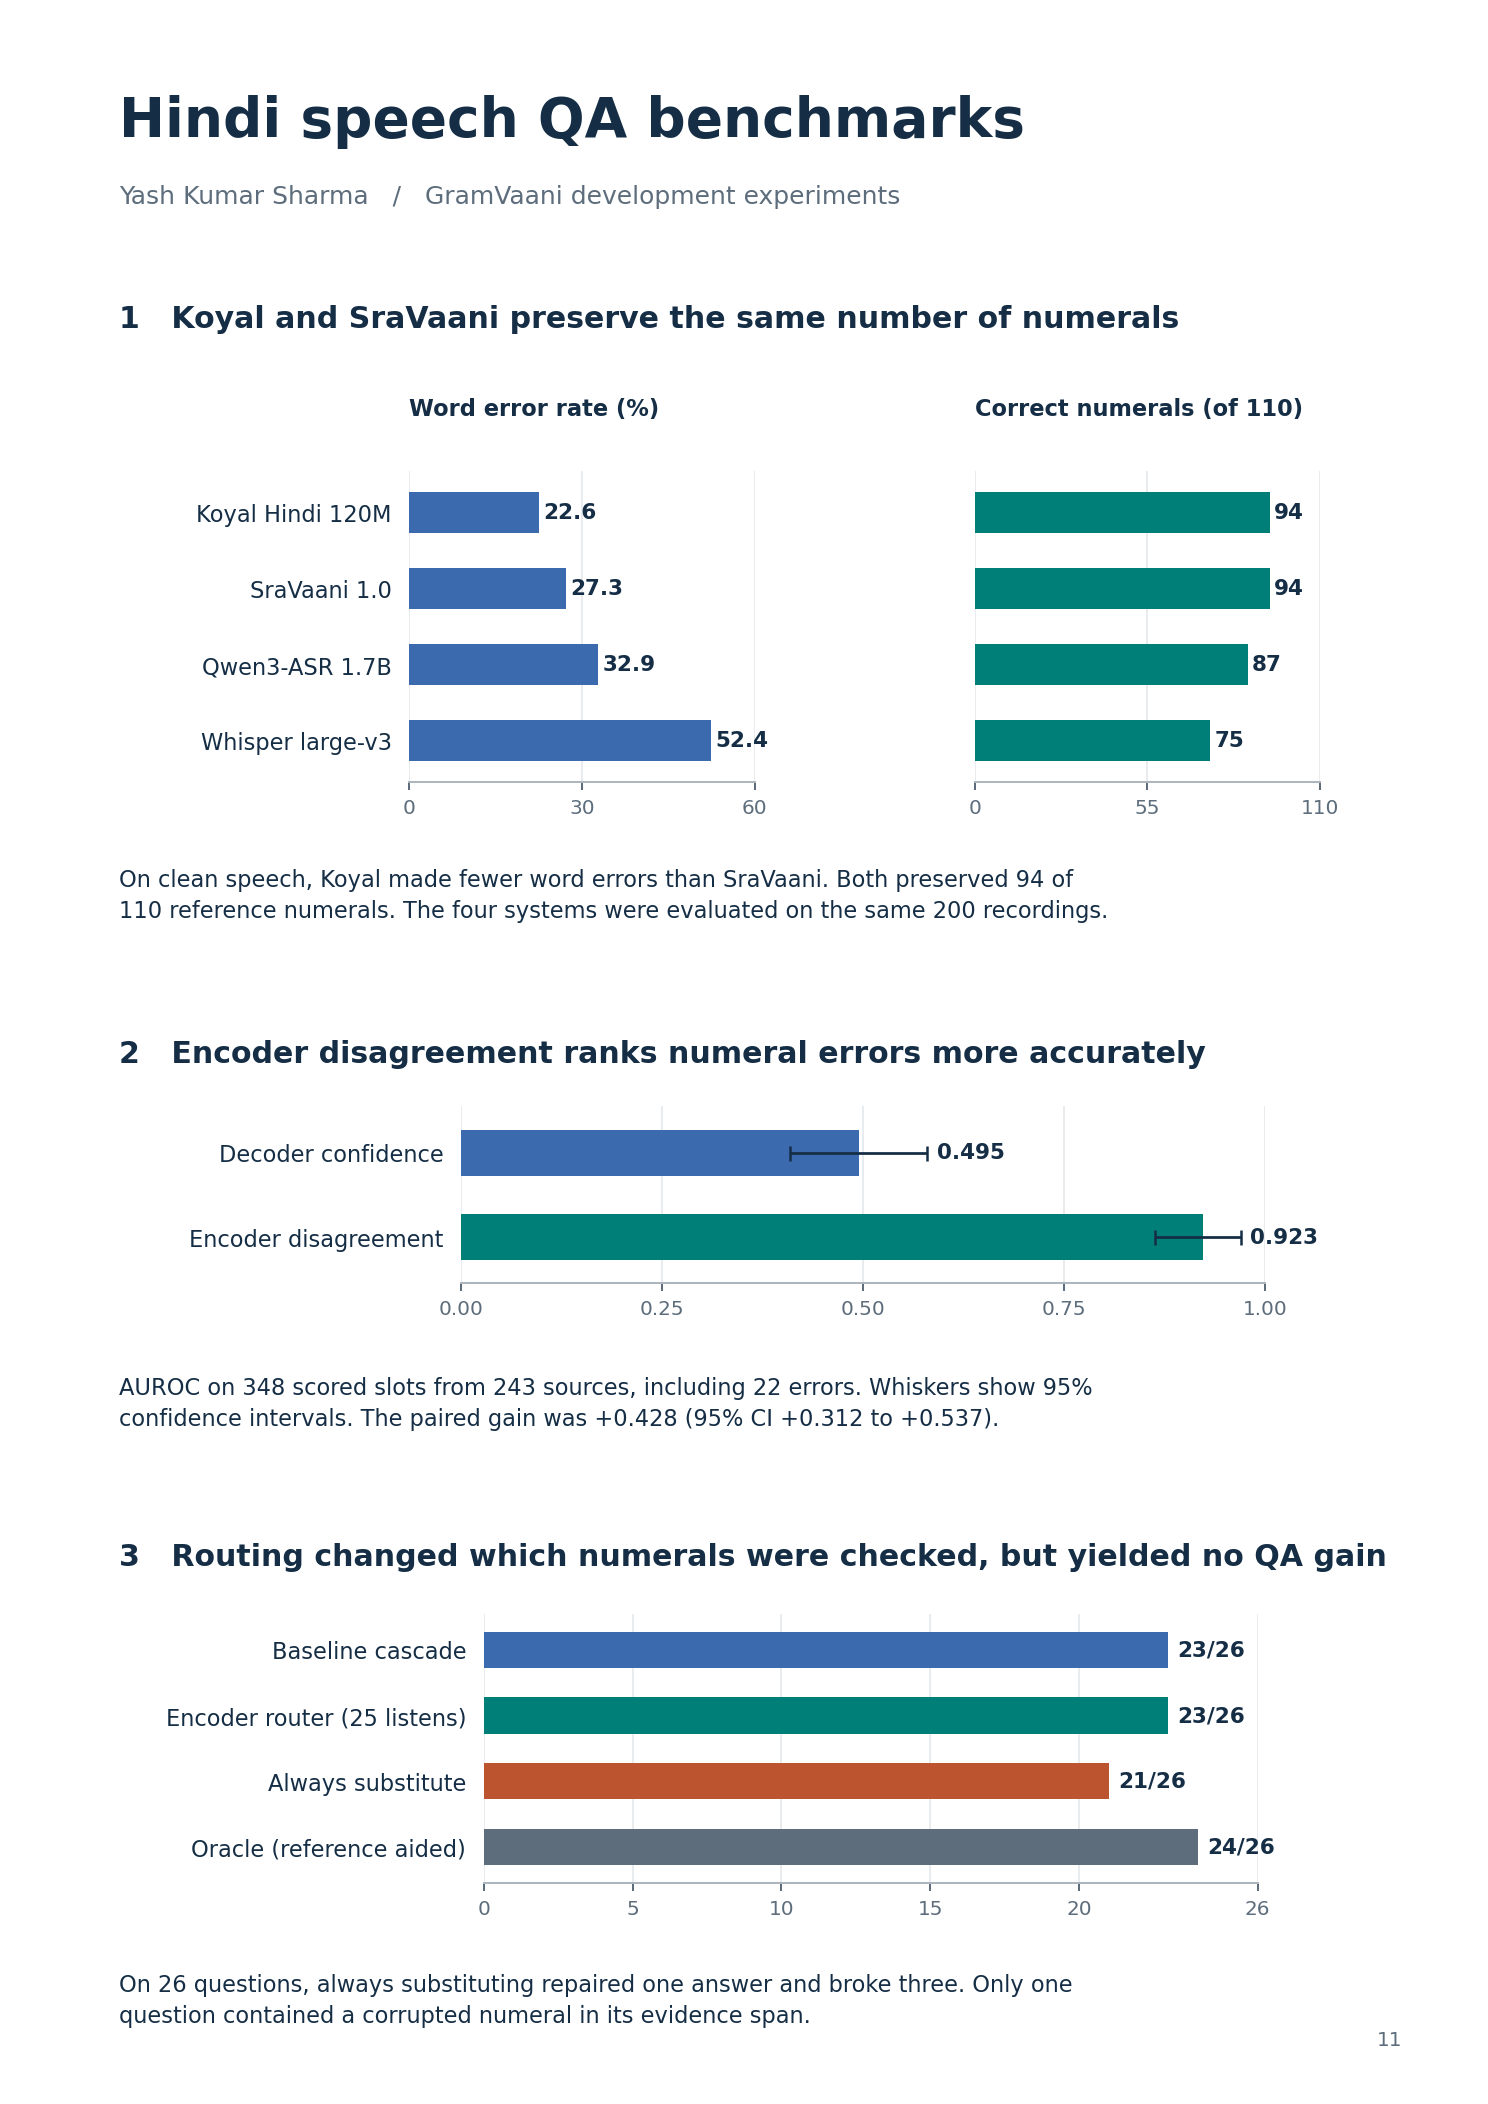
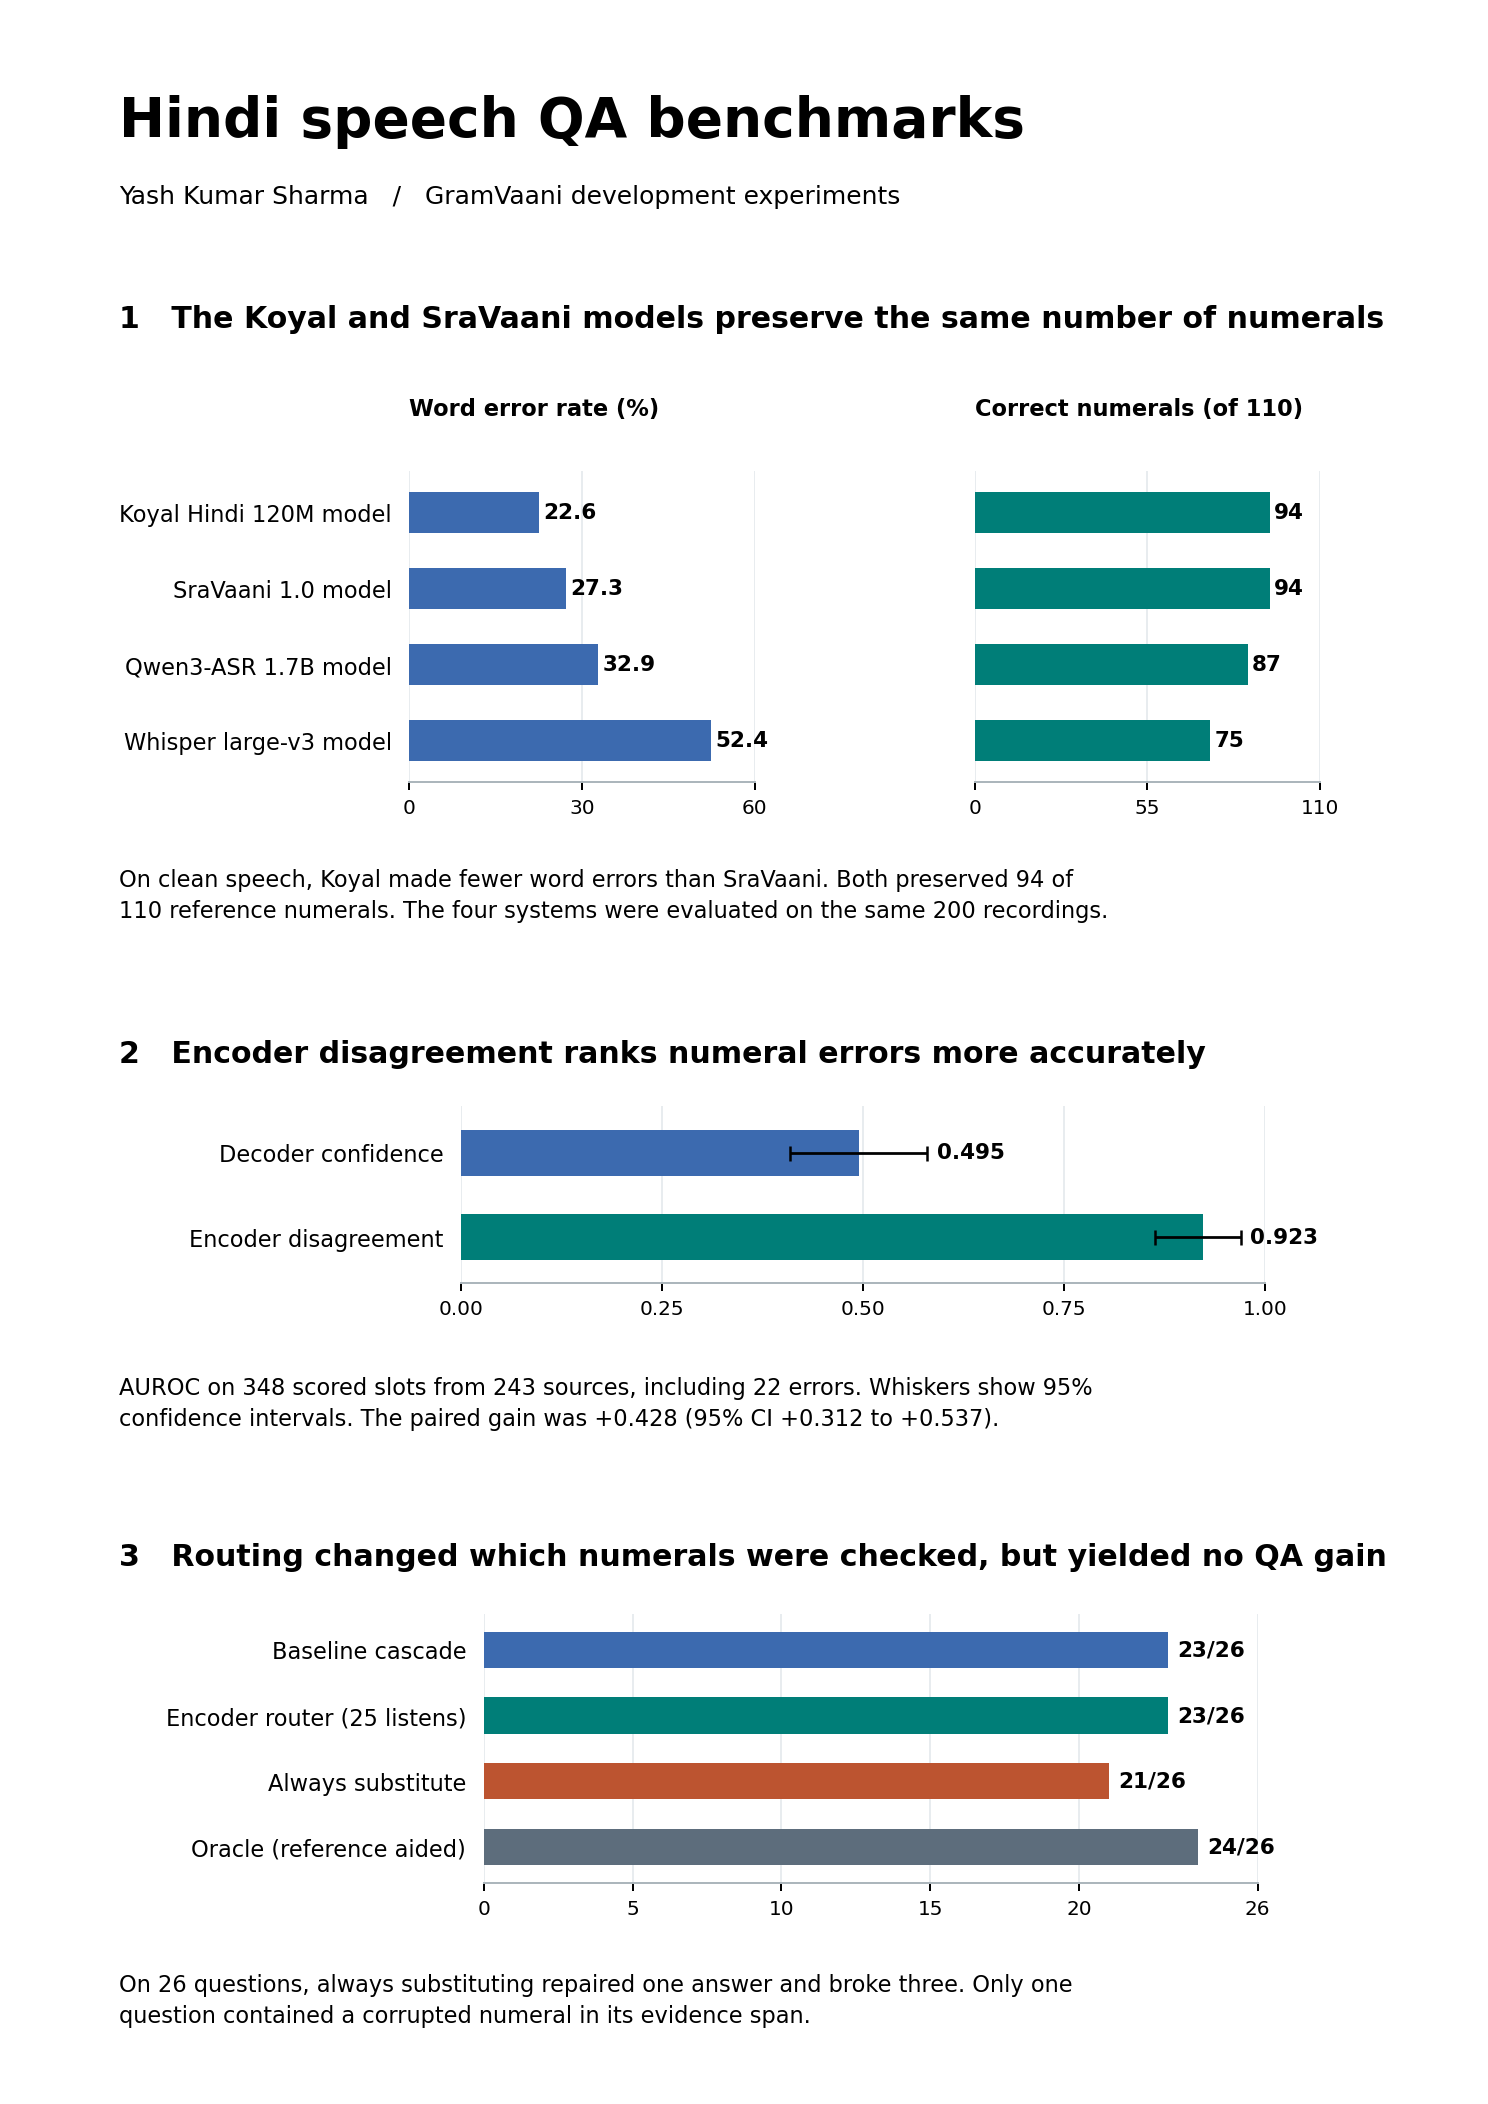
Label ASR models explicitly and use black benchmark text

diff --git a/figures/plot_benchmarks.py b/figures/plot_benchmarks.py
@@ -16,19 +16,19 @@ def render(vector=None, page_number=None):
     bench = read("bench-summary.json")["systems"]
     m1 = read("m1-report-values.json")["headconf_compare"]
     m5 = read("m5-report-values.json")["policies"]
-    navy, blue, teal, rust, grey = "#152e45", "#3c6aaf", "#007e78", "#bc5430", "#5d6d7c"
+    ink, blue, teal, rust, grey = "#000000", "#3c6aaf", "#007e78", "#bc5430", "#5d6d7c"
     plt.rcParams.update({"font.family":"DejaVu Sans","font.size":9,"axes.spines.top":False,
                          "axes.spines.right":False,"axes.spines.left":False,"axes.edgecolor":"#acb6bc",
-                         "axes.axisbelow":True,"text.color":navy,"xtick.color":grey,"ytick.color":navy,
+                         "axes.axisbelow":True,"text.color":ink,"xtick.color":ink,"ytick.color":ink,
                          "pdf.fonttype":42})
     fig = plt.figure(figsize=(595.3/72,841.9/72))
-    def caption(x,y,s,size=10,bold=False,color=navy):
+    def caption(x,y,s,size=10,bold=False,color=ink):
         fig.text(x,y,s,va="top",fontsize=size,color=color,weight="bold" if bold else "normal",linespacing=1.45)
     def bars(rect,values,labels,colors,limit,ticks,fmt,errors=None):
         ax = fig.add_axes(rect)
         ax.barh(range(len(values)), values, height=.55, color=colors)
         if errors:
-            ax.errorbar(values,range(len(values)),xerr=errors,fmt="none",ecolor=navy,capsize=3,lw=1.1)
+            ax.errorbar(values,range(len(values)),xerr=errors,fmt="none",ecolor=ink,capsize=3,lw=1.1)
         for i,value in enumerate(values):
             x = value + (errors[1][i] if errors else 0)
             ax.text(x+limit*.012,i,fmt(value),va="center",fontsize=8.6,weight="bold",clip_on=False)
@@ -37,9 +37,9 @@ def render(vector=None, page_number=None):
         ax.tick_params(axis="x",length=3,labelsize=8)
         return ax
     caption(.08,.955,"Hindi speech QA benchmarks",22,True)
-    caption(.08,.912,"Yash Kumar Sharma   /   GramVaani development experiments",10,False,grey)
-    caption(.08,.855,"1   Koyal and SraVaani preserve the same number of numerals",12,True)
-    ids=["koyal","sravaani","qwen","whisper"]; labels=["Koyal Hindi 120M","SraVaani 1.0","Qwen3-ASR 1.7B","Whisper large-v3"]
+    caption(.08,.912,"Yash Kumar Sharma   /   GramVaani development experiments",10,False,ink)
+    caption(.08,.855,"1   The Koyal and SraVaani models preserve the same number of numerals",12,True)
+    ids=["koyal","sravaani","qwen","whisper"]; labels=["Koyal Hindi 120M model","SraVaani 1.0 model","Qwen3-ASR 1.7B model","Whisper large-v3 model"]
     for k,(left,title) in enumerate([(.275,"Word error rate (%)"),(.655,"Correct numerals (of 110)")]):
         caption(left,.811,title,9,True)
         vals=[bench[i]["wer_published" if k==0 else "correct"] for i in ids]
@@ -55,7 +55,7 @@ def render(vector=None, page_number=None):
     keys=["CASCADE","ENC_b25","ALWAYS_qwen","ORACLE_qwen"]
     bars([.325,.105,.52,.128],[m5[k]["correct"] for k in keys],["Baseline cascade","Encoder router (25 listens)","Always substitute","Oracle (reference aided)"],[blue,teal,rust,grey],26,[0,5,10,15,20,26],lambda v:f"{v}/26")
     caption(.08,.062,"On 26 questions, always substituting repaired one answer and broke three. Only one\nquestion contained a corrupted numeral in its evidence span.",9)
-    if page_number: caption(.925,.035,str(page_number),8,color=grey)
+    if page_number: caption(.925,.035,str(page_number),8,color=ink)
     fig.savefig(ROOT/"figures"/"hindi-speech-benchmarks.png",dpi=180,facecolor="white")
     if vector: fig.savefig(vector,format="pdf",metadata={"Author":"Yash Kumar Sharma"})
     plt.close(fig)
